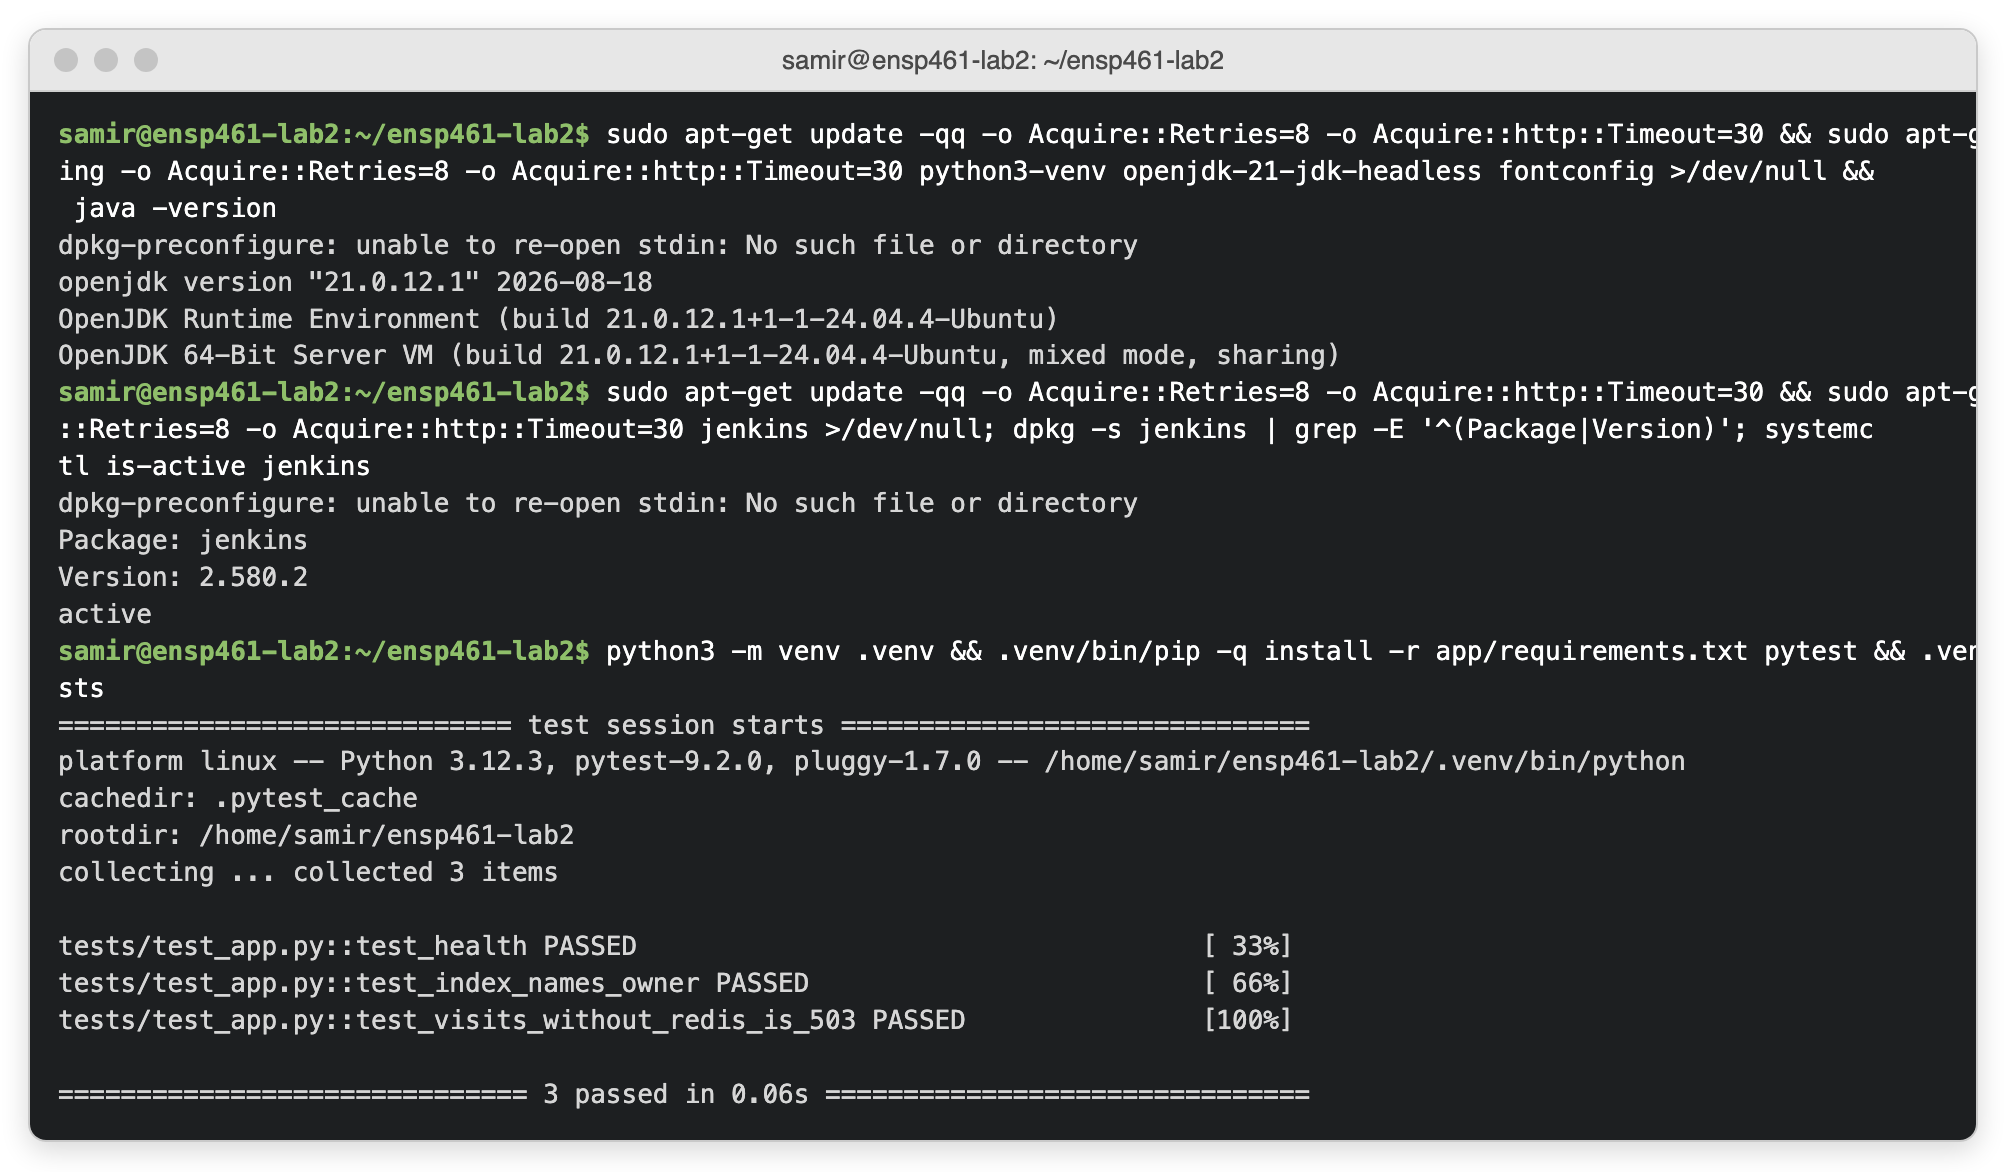
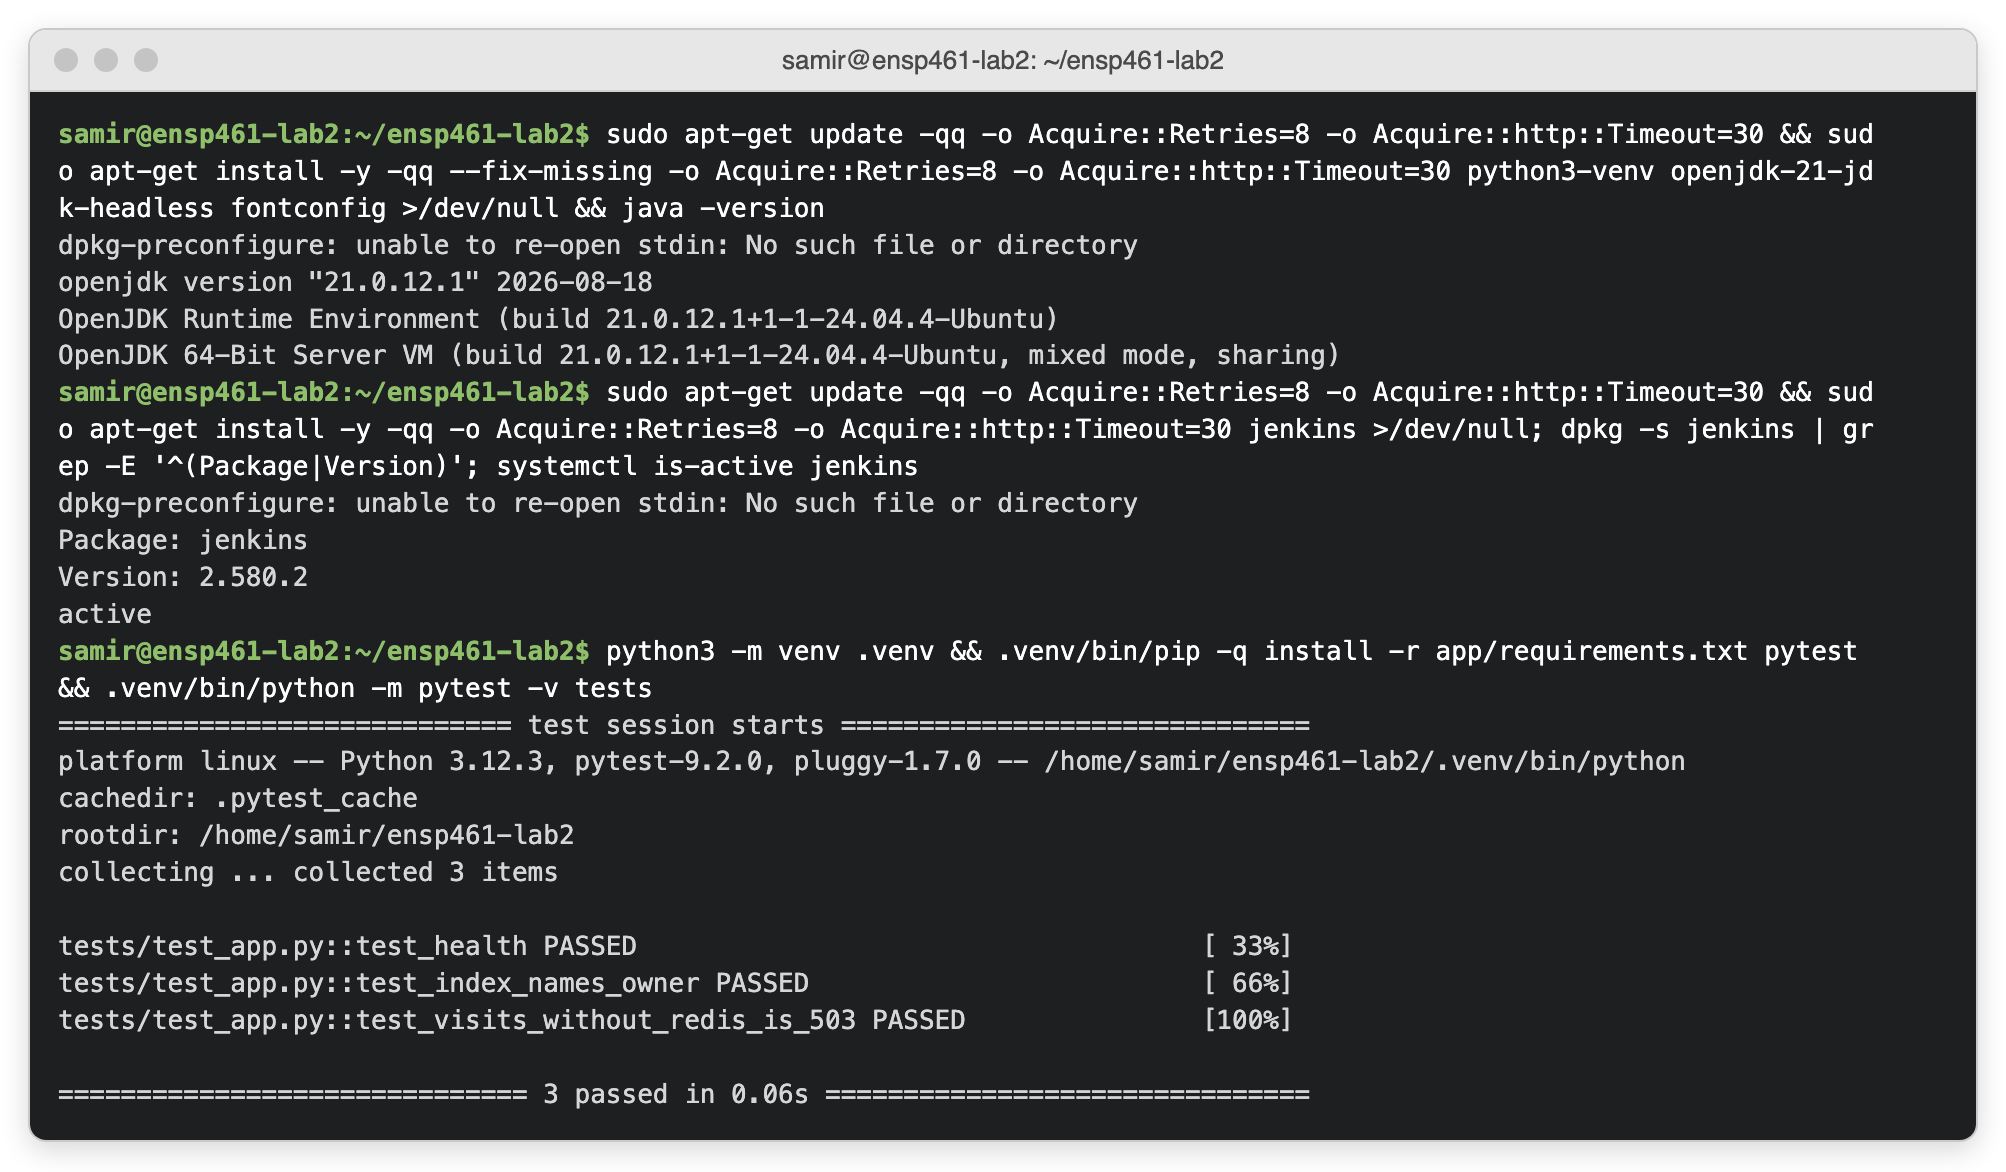
Render Q5-Q6 captures; wrap command rows after the prompt
The first row of long commands overflowed the window by the prompt's width.

diff --git a/scripts/shots.py b/scripts/shots.py
@@ -57,8 +57,11 @@ def blocks(log):
     return [(c, [l for l in o if not NOISE.match(l)]) for c, o in out]
 
 
-def wrap(text):
-    return [text[i:i + COLS] for i in range(0, max(len(text), 1), COLS)]
+def wrap(text, first=COLS):
+    """Split into terminal rows; the first row may be shorter (it follows the prompt)."""
+    rows = [text[:first]]
+    rows += [text[i:i + COLS] for i in range(first, len(text), COLS)]
+    return rows
 
 
 def render(name, spec):
@@ -76,7 +79,7 @@ def render(name, spec):
         if len(output) > MAX_OUTPUT_LINES:
             cut = len(output) - MAX_OUTPUT_LINES
             output = output[:MAX_OUTPUT_LINES] + [f"... ({cut} more lines in docs/logs/{logname})"]
-        first, *rest = wrap(cmd)
+        first, *rest = wrap(cmd, COLS - len(PROMPT) - 1)
         rows.append(f'<span class="p">{html.escape(PROMPT)}</span> <span class="c">{html.escape(first)}</span>')
         rows += [f'<span class="c">{html.escape(r)}</span>' for r in rest]
         for line in output:
